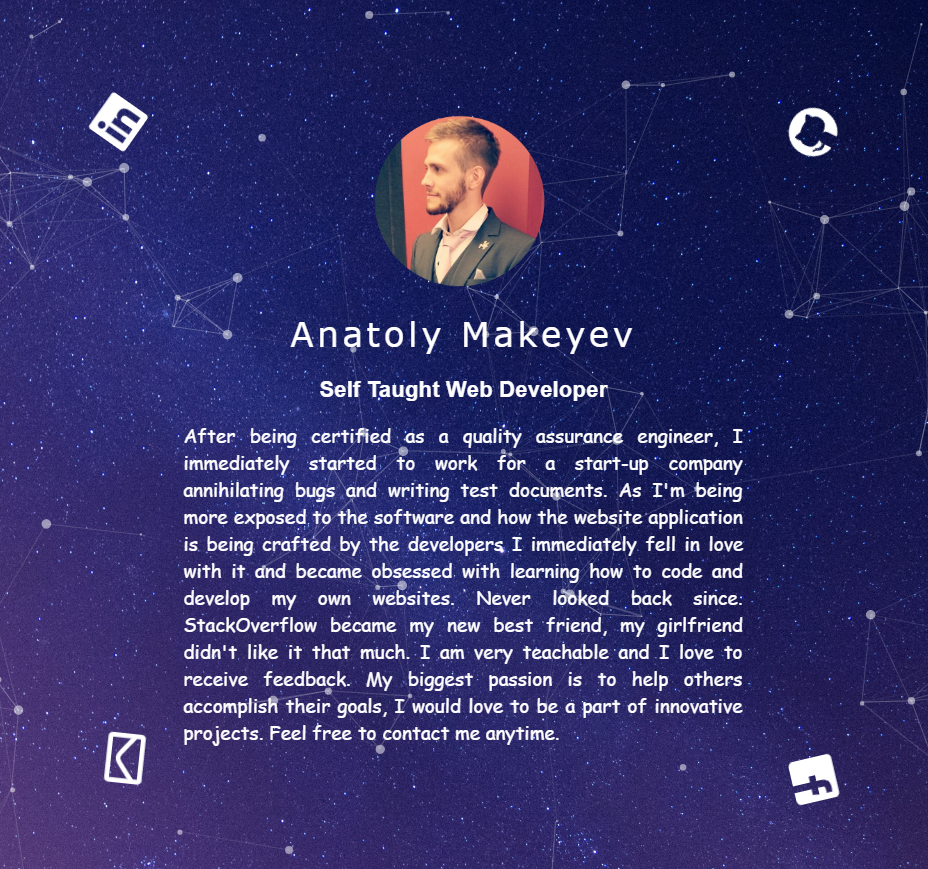
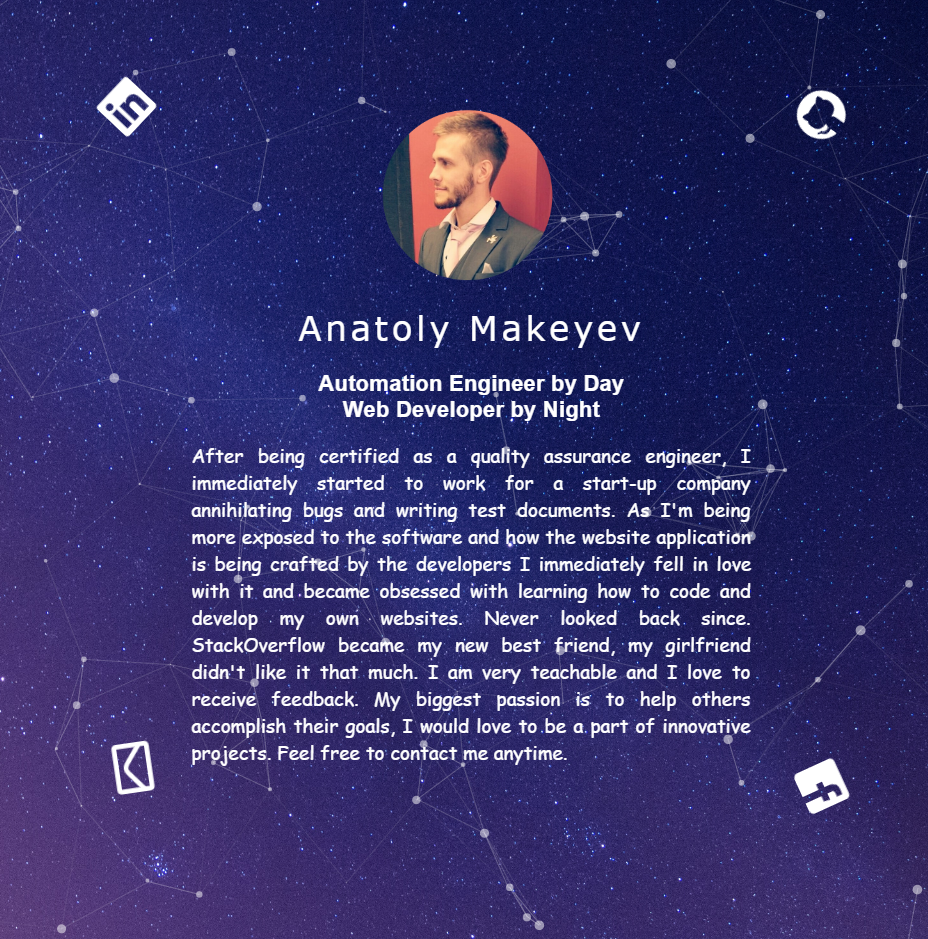
updated about me page

diff --git a/projects/aboutMe/index.html b/projects/aboutMe/index.html
@@ -15,9 +15,9 @@
 		<div id="particles-js">
 
 			<div id="box">
-				<input class="native-hidden" type="checkbox">
+				<input id="main-pic" class="native-hidden" type="checkbox">
 				<h1>Anatoly Makeyev</h1>
-				<h2>Self Taught Web Developer</h2>
+				<h2>Automation Engineer by Day<br>Web Developer by Night</h2>
 				<p>After being certified as a quality assurance engineer, I immediately started to work for a start-up company annihilating bugs and writing test documents.
 				As I'm being more exposed to the software and how the website application is being crafted by the developers
 				I immediately fell in love with it and became obsessed with learning how to code and develop my own websites. Never looked back since.
@@ -33,7 +33,7 @@
 
 			<div id="fb"><a href="https://www.facebook.com/anatoly.makeyev" target="_blank" class="facebook"><i class="fab fa-facebook-square"></i></a></div>
 
-			<div id="mail" class="mail"><i class="far fa-envelope"></i></div>
+			<div id="mail"><a href="mailto:anatoly.makeyev@gmail.com?subject=We%20want%20to%20work%20with%20you!" class="mail"><i class="far fa-envelope"></i></a></div>
 
 		</div>
 

diff --git a/projects/moreProjects/work/aboutMePage/index.html b/projects/moreProjects/work/aboutMePage/index.html
@@ -15,9 +15,9 @@
 		<div id="particles-js">
 
 			<div id="box">
-				<input class="native-hidden" type="checkbox">
+				<input id="main-pic" class="native-hidden" type="checkbox">
 				<h1>Anatoly Makeyev</h1>
-				<h2>Self Taught Web Developer</h2>
+				<h2>Automation Engineer by Day<br>Web Developer by Night</h2>
 				<p>After being certified as a quality assurance engineer, I immediately started to work for a start-up company annihilating bugs and writing test documents.
 				As I'm being more exposed to the software and how the website application is being crafted by the developers
 				I immediately fell in love with it and became obsessed with learning how to code and develop my own websites. Never looked back since.
@@ -33,7 +33,7 @@
 
 			<div id="fb"><a href="https://www.facebook.com/anatoly.makeyev" target="_blank" class="facebook"><i class="fab fa-facebook-square"></i></a></div>
 
-			<div id="mail" class="mail"><i class="far fa-envelope"></i></div>
+			<div id="mail"><a href="mailto:anatoly.makeyev@gmail.com?subject=We%20want%20to%20work%20with%20you!" class="mail"><i class="far fa-envelope"></i></a></div>
 
 		</div>
 

diff --git a/projects/aboutMe/script.js b/projects/aboutMe/script.js
@@ -1,25 +1,27 @@
 $(document).ready(function() { 
 
-		// Change the title text when leaving the tab
-		$(function() {
-			// Get page title
-				var pageTitle = $("title").text();
+	// Change the title text when leaving the tab
+	$(function() {
+		// Get page title
+			var pageTitle = $("title").text();
 
-			// Change page title on blur
-			$(window).blur(function() {
-				$("title").text("Come back!");
-			});
-
-			// Change page title back on focus
-			$(window).focus(function() {
-				$("title").text(pageTitle);
-			});
+		// Change page title on blur
+		$(window).blur(function() {
+			$("title").text("About Me");
 		});
 
-
-		$("#mail").click(function()  {
-			alert("anatoly.makeyev@gmail.com");
+		// Change page title back on focus
+		$(window).focus(function() {
+			$("title").text(pageTitle);
 		});
+	});
+
+	
+	document.getElementById("main-pic").onclick=function() {
+		setTimeout(function() {
+			window.open("https://anatoly-portfolio.netlify.com");
+		}, 1000);
+	}
 
 
- });
+});

diff --git a/projects/moreProjects/work/aboutMePage/script.js b/projects/moreProjects/work/aboutMePage/script.js
@@ -7,7 +7,7 @@ $(document).ready(function() {
 
 			// Change page title on blur
 			$(window).blur(function() {
-				$("title").text("Come back!");
+				$("title").text("About Me");
 			});
 
 			// Change page title back on focus
@@ -17,9 +17,10 @@ $(document).ready(function() {
 		});
 
 
-		$("#mail").click(function()  {
-			alert("anatoly.makeyev@gmail.com");
-		});
-
+		document.getElementById("main-pic").onclick=function() {
+			setTimeout(function() {
+				window.open("https://anatoly-portfolio.netlify.com");
+			}, 1000);
+		}
 
  });

diff --git a/projects/aboutMe/style.css b/projects/aboutMe/style.css
@@ -106,18 +106,22 @@ li {
 
 .github:hover {
 	color: #24292E;
+	transition: color 1s;
 }
 
 .linkedin:hover {
 	color: #0077B5;
+	transition: color 1s;
 }
 
 .facebook:hover {
 	color: #4267B2;
+	transition: color 1s;
 }
 
 .mail:hover {
 	color: rgb(233, 10, 10);
+	transition: color 1s;
 }
 
 /* ~~~~~~~~~~ Floating Animation ~~~~~~~~~~~~ */

diff --git a/projects/moreProjects/work/aboutMePage/style.css b/projects/moreProjects/work/aboutMePage/style.css
@@ -106,18 +106,22 @@ li {
 
 .github:hover {
 	color: #24292E;
+	transition: color 1s;
 }
 
 .linkedin:hover {
 	color: #0077B5;
+	transition: color 1s;
 }
 
 .facebook:hover {
 	color: #4267B2;
+	transition: color 1s;
 }
 
 .mail:hover {
 	color: rgb(233, 10, 10);
+	transition: color 1s;
 }
 
 /* ~~~~~~~~~~ Floating Animation ~~~~~~~~~~~~ */
